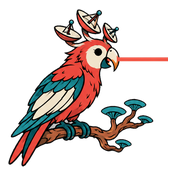
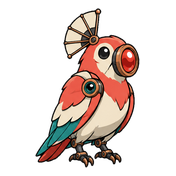
Add railgun and reworked laser parrot pictures
The laser parrot no longer fires a beam: a round parrot with a lens beak
and a dish crest. The item-art skill now says a weapon shows at most one
projectile and that weapons go on four-item sheets.

Claude-Session: https://claude.ai/code/session_01XFXXMkAzeq5jGJqFk9hiAx

diff --git a/docs/item-art.md b/docs/item-art.md
@@ -68,7 +68,7 @@ Generated by `npm run catalog` from `data/item-art.json` and `data/items/`. Do n
 | Gamma Lance | `items/gamma_lance.png` | epic | 3×1 `###` | Pole lance tipped with a caged reactor rod. Accent: mustard. | Along the long box: a long pole lance, its tip a heavy reactor rod in a small cage marked with three flat mustard radiation wedges, a cable spiralling down the shaft to a battery at the butt. |
 | Antimatter Dagger | `items/antimatter_dagger.png` | epic | 1×1 `#` | Dagger with a blade of black void, debris falling into it. Accent: cream. | A small dagger whose blade is a flat black void with a crisp cream outline, two tiny specks of debris falling into it, an iron hilt with a containment ring. |
 | Photon Bow | `items/photon_bow.png` | epic | 1×3 `#./#./#.` | Bow bent from a solar panel strip, arrow with a star head. Accent: mustard. | Upright through the tall box: a bow bent from a long strip of solar panel with flat teal cells, the string a straight mustard line, a nocked arrow whose head is a small five-pointed star. |
-| Railgun | `items/railgun.png` | epic | 4×1 `####` | Two rails from a station docking track, a slug leaving with shock rings. Accent: teal. | Along the long box: two straight parallel teal rails taken from a station's docking track, braces between them, a boxy grip and a fat capacitor at the back end. A small slug leaves the front with two flat shock rings around it. |
+| Railgun | `items/railgun.png` | epic | 4×1 `####` | Two rails from a station docking track, one slug at the front. Accent: teal. | Along the long box: two straight parallel teal rails taken from a station's docking track, braces between them, a boxy grip and a fat capacitor at the back end. One small slug sits between the rails at the front. |
 | Swarm Missiles | `items/swarm_missiles.png` | epic | 2×2 `##/##` | Honeycomb rack of small rockets with a tether clip. Accent: coral red. | A square honeycomb rack seen from the front, every cell holding a small coral red rocket nose, two cells empty and scorched, a short tether clip on the top edge. The whole rack fits inside the frame. |
 | Graviton Maul | `items/graviton_maul.png` | legendary | 2×3 `##/##/#.` | Maul with a round head circled by two orbit rings carrying debris. Accent: teal. | The heavy head fills the upper four cells, the haft drops down the lower left cell; the lower right stays empty. Around the round head two thin teal orbit rings tilt at an angle; small debris pieces hang in the rings. |
 | Void Scythe | `items/void_scythe.png` | legendary | 2×3 `##/#./#.` | L-shaped scythe whose blade is a slice of night sky. Accent: cream. | The curved blade sweeps across the top row, the long shaft runs down the left cells; the right lower cells stay empty. The blade is a slice of night sky, black with a few tiny cream stars and a thin crescent moon; the shaft plain iron with a tether ring. |
@@ -220,7 +220,7 @@ Generated by `npm run catalog` from `data/item-art.json` and `data/items/`. Do n
 | Dune Ox | `items/dune_ox.png` | common | 2×2 `##/##` | Shaggy ox with dish-shaped horns and a mossy saddle back. Accent: copper. | Filling the square box: one big shaggy ox of the Herdworld plains in side view, all four legs clearly visible, head lowered, its two horns shaped like small satellite dishes, its broad back a flat saddle of moss. One front hoof scraping the ground. |
 | Tardigrade | `items/tardigrade.png` | rare | 1×1 `#` | Chubby tardigrade in a tiny space helmet, unbothered. Accent: cream. | A chubby wrinkled cream tardigrade with eight stubby clawed legs, wearing a tiny round space helmet it does not need, looking completely unbothered. |
 | Repair Bot | `items/repair_bot.png` | rare | 1×2 `#/#` | Small wrench-armed robot carrying a roll of hull tape. Accent: mustard. | Upright: a small round robot on two stubby legs, one arm a wrench, one round mustard eye, a roll of hull tape worn like a backpack. |
-| Laser Parrot | `items/laser_parrot.png` | rare | 1×1 `.#.` | Parrot with dish-shaped crest feathers firing a laser line. Accent: coral red. | A parrot from Gemell's twilight forests perched sideways, its crest feathers shaped like small satellite dishes, a straight coral red laser line shooting from its beak. |
+| Laser Parrot | `items/laser_parrot.png` | rare | 1×1 `.#.` | Round parrot from Gemell with a lens beak and a dish crest. Accent: coral red. | A plump parrot from Gemell's twilight forests standing upright, wings folded, its beak a coral red lens in a copper ring, its crest a small fanned dish, big dusk eyes. |
 | Nebula Jelly | `items/nebula_jelly.png` | rare | 2×1 `##` | Jellyfish with a nebula cloud inside its bell. Accent: teal. | Lying across the box: a jellyfish drifting through the Veil nebula, its bell a see-through dome with a small teal swirl of nebula cloud inside, tentacles trailing behind like dust trails. |
 | Magma Newt | `items/magma_newt.png` | rare | 2×1 `##` | Basalt-skinned newt with heat cracks and a glass tail. Accent: coral red. | A newt from a lava planet lying across the box, its skin cracked like cooling black basalt with coral red heat in the cracks as flat colour, its tail ending in a lump of volcanic glass, steam as wavy ink lines. |
 | Ice Ferret | `items/ice_ferret.png` | rare | 2×1 `##` | Slinky Rime ferret with an ice-crystal crest along its spine. Accent: teal. | Lying across the box: a long slinky ferret from Rime, white fur, a crest of clear teal ice crystals along its spine, big pale eyes, its tail curled round a chunk of methane ice. |

diff --git a/.claude/skills/item-art/SKILL.md b/.claude/skills/item-art/SKILL.md
@@ -63,6 +63,8 @@ Rules for the idea:
   item carries one shape and one feature, a big item up to four.
 - **Still the same world:** worn, practical, salvaged, patched (docs/style.md, "Items"). Inventive does not mean
   clean sci-fi chrome.
+- **One projectile at most.** A weapon shows at most one projectile (one arrow, one slug, one needle), never a
+  burst, a volley or a beam line across the picture (Ilja 2026-11-18).
 - **No glow.** Energy, heat and light are flat colour shapes or wavy ink lines, never glow, bloom or neon.
 - **No text, letters, logos.** No alcohol. Nothing from Backpack Brawl or other existing games.
 
@@ -142,4 +144,8 @@ Image credits are limited. Generate only when Ilja asks, check the balance first
 - Small puffs of smoke or steam at an item's edge look odd at backpack size (Rocket Chili); leave them out.
 - Judge in this order: does it read as the named thing at real size? Is there a space idea? Does it fit the
   style and palette?
+- A single weapon alone on one image (Railgun, 21:9) was refused twice by the model's safety filter; put
+  weapons on a normal four-item sheet with other items.
+- Pets that "fire" something (Laser Parrot with a laser line) read badly; show the animal and its alien feature,
+  not the attack.
 - Write lessons learned into this skill.
